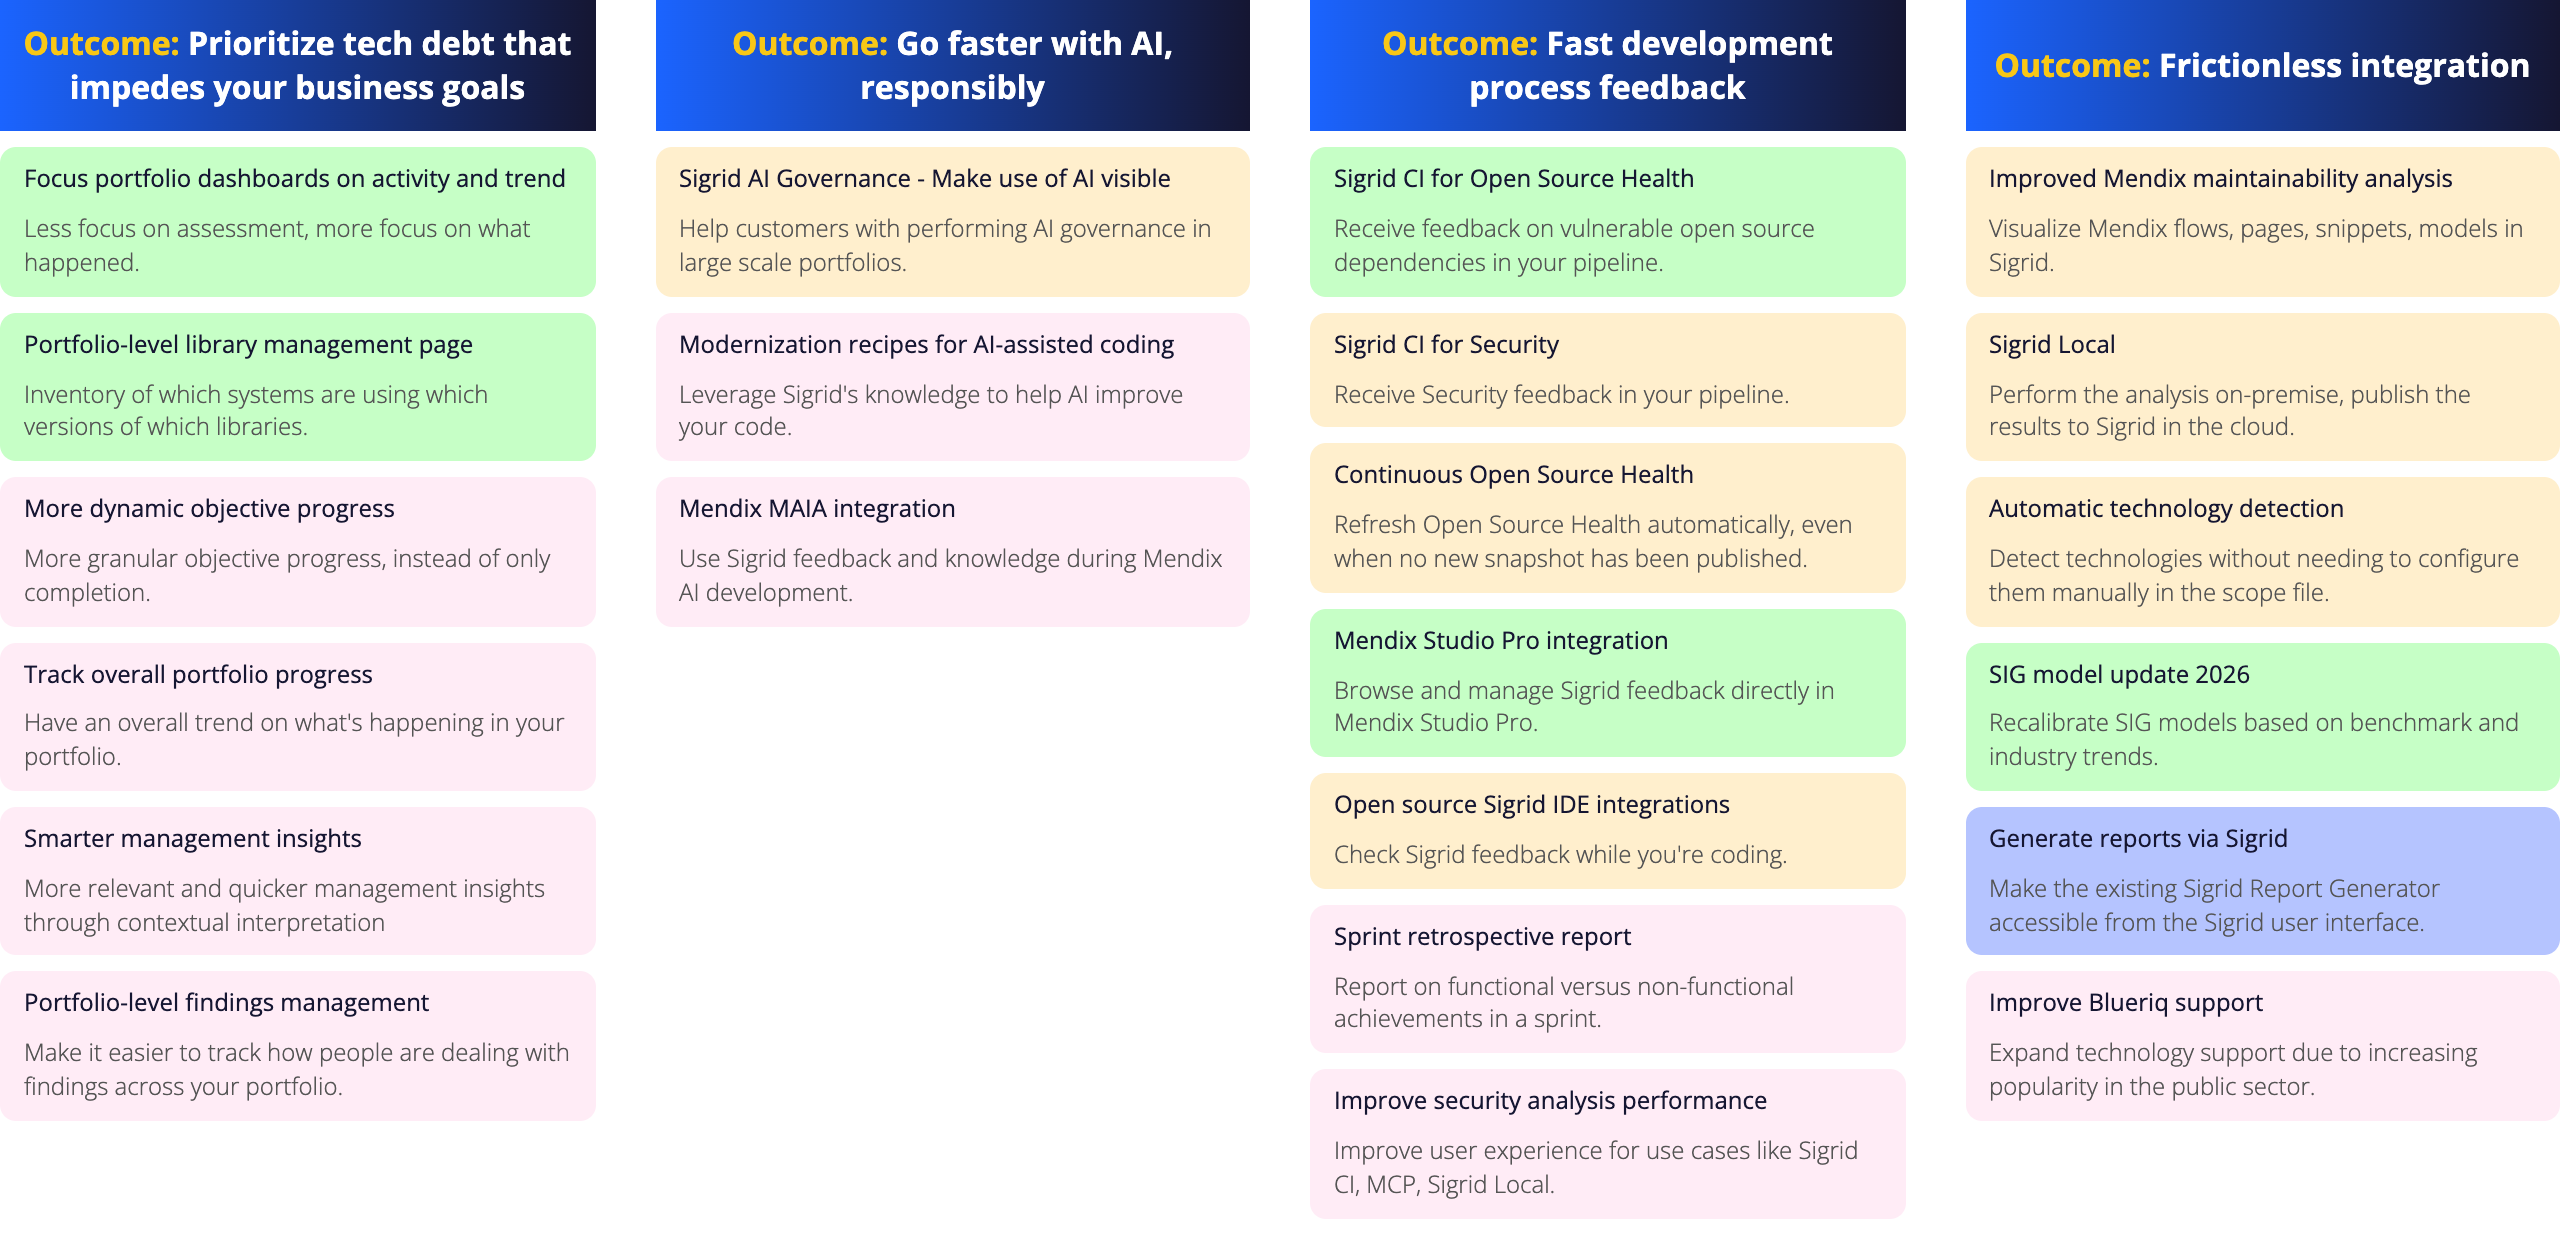
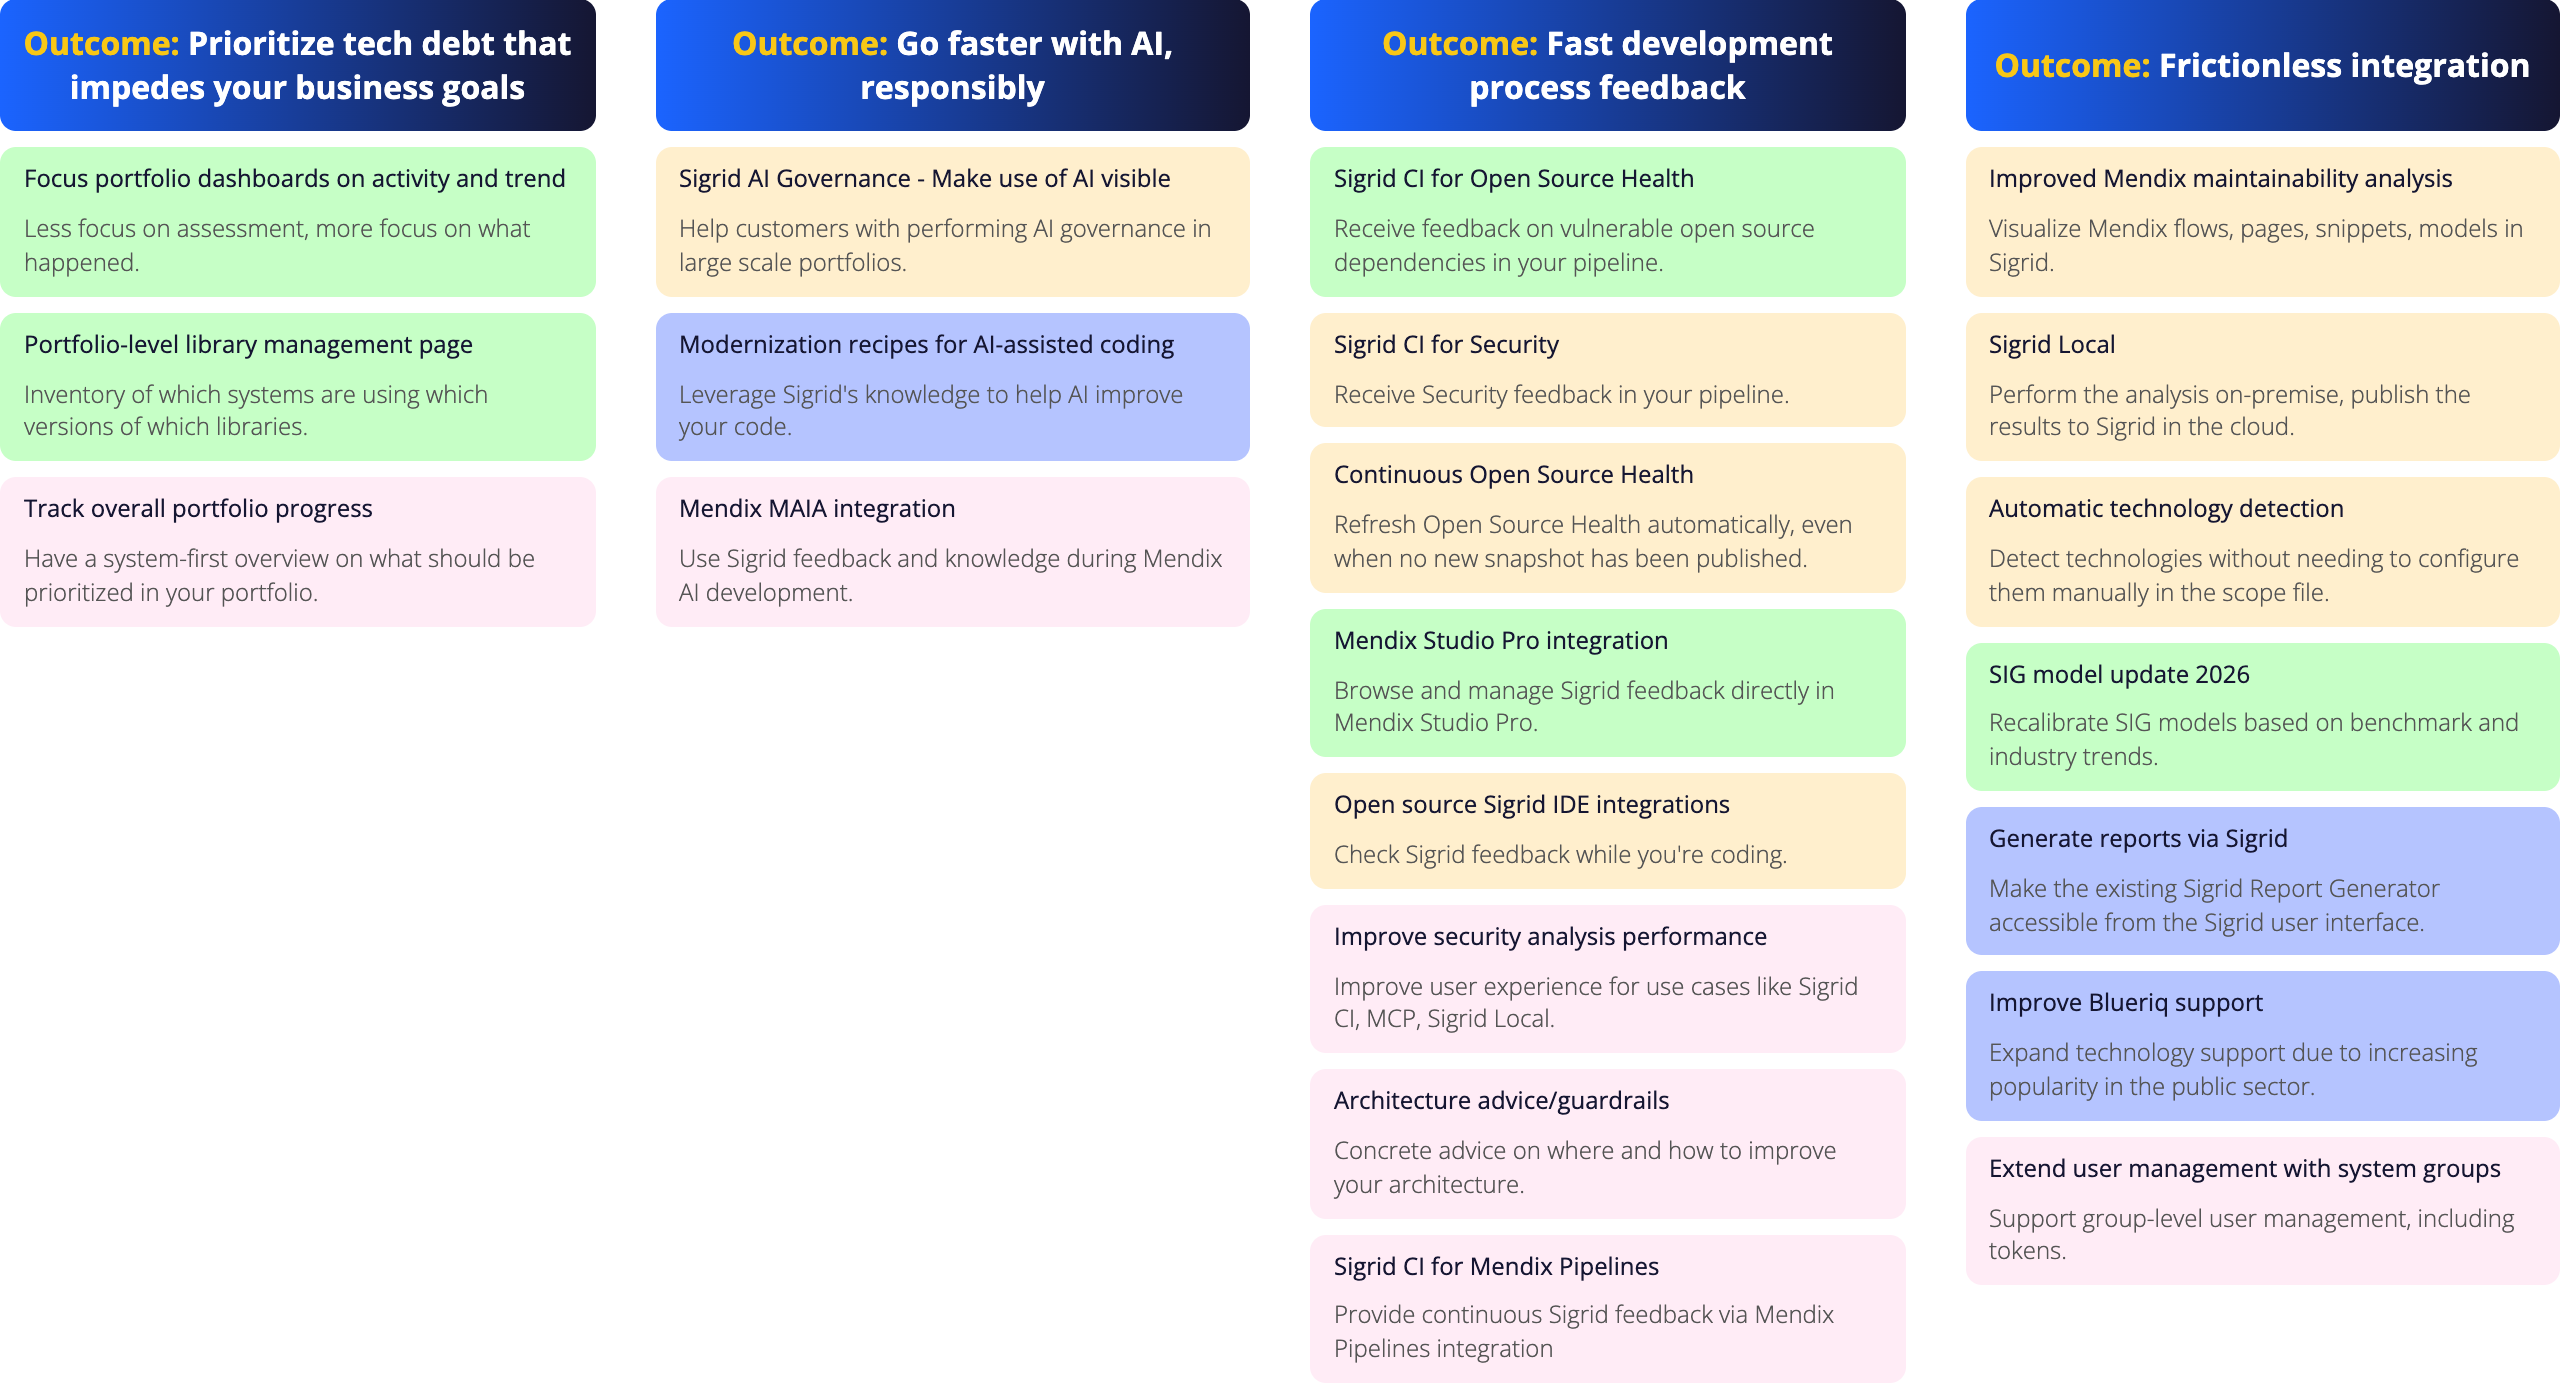
Update release notes.

diff --git a/docs/_includes/menu.html b/docs/_includes/menu.html
@@ -126,7 +126,8 @@
             <a href="/capabilities/reports/objectives-report.html" class="page subPage">Objectives report</a>
             <a href="/capabilities/reports/modernization-report.html" class="page subPage">Modernization report</a>
             <a href="https://github.com/Software-Improvement-Group/sigrid-integrations" class="page">Sigrid integration on GitHub</a>
-            <a href="https://github.com/Software-Improvement-Group/sigrid-integrations/tree/main/slack-security-findings" class="page subPage">Security findings in Slack (or MS Teams)</a>
+            <a href="https://github.com/Software-Improvement-Group/sigrid-integrations/tree/main/slack-security-findings" class="page subPage">Security findings in Slack</a>
+            <a href="https://github.com/Software-Improvement-Group/sigrid-integrations/tree/main/teams-security-findings" class="page subPage">Security findings in MS Teams</a>
             <a href="https://github.com/Software-Improvement-Group/sigrid-integrations/tree/main/get-scope-file" class="page subPage">Get/Update scope configuration file</a>
             <a href="https://github.com/Software-Improvement-Group/sigrid-integrations/tree/main/polarion-integration" class="page subPage">Siemens Polarion integration</a>
             <a href="https://github.com/Software-Improvement-Group/sigrid-integrations/tree/main/ldap-group-sync" class="page subPage">Sigrid LDAP group synchronization</a>   

diff --git a/docs/_includes/stylesheet.css b/docs/_includes/stylesheet.css
@@ -363,8 +363,6 @@ pre {
     padding: 16px;
     border-radius: 8px;
     font-family: "Menlo", monospace;
-    margin-left: auto;
-    margin-right: auto;
 }
 
 p > code, li > code {

diff --git a/docs/reference/technology-support.md b/docs/reference/technology-support.md
@@ -430,29 +430,30 @@ In addition to supporting 300+ technologies, Sigrid also supports various open s
 
 | Open source ecosystem | Common technologies    | Vulnerability risk | License risk | Freshness risk | Transitive dependencies | Notes                                                                            |
 |-----------------------|------------------------|--------------------|--------------|----------------|-------------------------|----------------------------------------------------------------------------------|
-| Bower                 | JavaScript             | ✅                  | ✅            | ✅              | ❌                       |
-| Cargo                 | Rust                   | ✅                  | ✅            | ✅              | ✅                       |
+| Bower                 | JavaScript             | ✅                  | ✅            | ✅              | ❌                       |                                                                                  |
+| Cargo                 | Rust                   | ✅                  | ✅            | ✅              | ✅                       |                                                                                  |
 | CocoaPods             | Swift, Objective-C     | ❌                  | ❌            | ❌              | ❌                       | End-of-life, as CocoaPods itself is shutting down.                               |
-| Composer              | PHP                    | ✅                  | ✅            | ✅              | ✅                       |
-| Go Modules            | Go                     | ✅                  | ✅            | ✅              | ✅                       |
+| Composer              | PHP                    | ✅                  | ✅            | ✅              | ✅                       |                                                                                  |
+| Go Modules            | Go                     | ✅                  | ✅            | ✅              | ✅                       |                                                                                  |
 | Gradle                | Java, Kotlin, Groovy   | ✅                  | ✅            | ✅              | ✅                       | [Instructions for publishing](../capabilities/osh-upload-instructions.md#gradle) |
-| Ivy                   | Java                   | ✅                  | ✅            | ✅              | ✅                       |
-| LibMan                | JavaScript             | ✅                  | ✅            | ✅              | ❌                       |
+| Hex                   | Erlang, Elixir         | ❌                  | ❌            | ❌              | ✅                       |                                                                                  |
+| Ivy                   | Java                   | ✅                  | ✅            | ✅              | ✅                       |                                                                                  |
+| LibMan                | JavaScript             | ✅                  | ✅            | ✅              | ❌                       |                                                                                  |
 | Maven                 | Java                   | ✅                  | ✅            | ✅              | ✅                       | [Instructions for publishing](../capabilities/osh-upload-instructions.md#maven)  |
-| NPM                   | JavaScript, TypeScript | ✅                  | ✅            | ✅              | ✅                       |
-| NuGet                 | C#                     | ✅                  | ✅            | ✅              | ✅                       |
-| PNPM                  | JavaScript, TypeScript | ✅                  | ✅            | ✅              | ✅                       |
+| NPM                   | JavaScript, TypeScript | ✅                  | ✅            | ✅              | ✅                       |                                                                                  |
+| NuGet                 | C#                     | ✅                  | ✅            | ✅              | ✅                       |                                                                                  |
+| PNPM                  | JavaScript, TypeScript | ✅                  | ✅            | ✅              | ✅                       |                                                                                  |
 | Poetry                | Python                 | ✅                  | ✅            | ✅              | ✅                       | [Instructions for publishing](../capabilities/osh-upload-instructions.md#poetry) |
-| pub.dev               | Dart, Flutter          | ✅                  | ❌            | ✅              | ❌                       |
-| PuppetForge           | Puppet                 | ❌                  | ✅            | ✅              | ❌                       |
-| PyPi                  | Python                 | ✅                  | ✅            | ✅              | ✅                       |
-| RubyGems              | Ruby                   | ✅                  | ✅            | ✅              | ✅                       |
-| SBT                   | Scala                  | ✅                  | ✅            | ✅              | ✅                       |
-| SwiftPM               | Swift                  | ❌                  | ✅            | ✅              | ❌                       |
-| UV                    | Python                 | ✅                  | ✅            | ✅              | ✅                       | 
-| Unmanaged JAR files   | Java                   |
-| Unmanaged DLL files   | C#                     | 
-| Unmanaged JS files    | JavaScript             |
+| pub.dev               | Dart, Flutter          | ✅                  | ❌            | ✅              | ❌                       |                                                                                  |
+| PuppetForge           | Puppet                 | ❌                  | ✅            | ✅              | ❌                       |                                                                                  |
+| PyPi                  | Python                 | ✅                  | ✅            | ✅              | ✅                       |                                                                                  |
+| RubyGems              | Ruby                   | ✅                  | ✅            | ✅              | ✅                       |                                                                                  |
+| SBT                   | Scala                  | ✅                  | ✅            | ✅              | ✅                       |                                                                                  |
+| SwiftPM               | Swift                  | ❌                  | ✅            | ✅              | ❌                       |                                                                                  |
+| UV                    | Python                 | ✅                  | ✅            | ✅              | ✅                       |                                                                                  |
+| Unmanaged JAR files   | Java                   |                    |              |                |                         |                                                                                  |
+| Unmanaged DLL files   | C#                     |                    |              |                |                         |                                                                                  |
+| Unmanaged JS files    | JavaScript             |                    |              |                |                         |                                                                                  |
 
 ## Supported security analyzers
 

diff --git a/docs/reference/release-notes.md b/docs/reference/release-notes.md
@@ -3,23 +3,21 @@ Sigrid release notes
 
 SIG uses [continuous delivery](https://en.wikipedia.org/wiki/Continuous_delivery), meaning that every change to Sigrid or the underlying analysis is released once our development pipeline has completed. On average, we release somewhere between 10 and 20 times per day. This page therefore doesn't list every single change, since that would quickly lead to an excessively long list of small changes. Instead, this page lists Sigrid and analysis changes that we consider noteworthy for the typical Sigrid user.
 
-### June 22, 2026
+### June 29, 2026
 
-- **Sigrid CI:** PR feedback comments can now be posted directly using the built-in `GITHUB_TOKEN`, making the `mshick/add-pr-comment` action optional. No additional configuration is required.
+- **Code Explorer:** The user interface within the Code Explorer has been expanded to be more flexible. You can now choose to collapse the source code, giving you more space to browse the list of findings. The [Code Explorer documentation](../capabilities/system-code-explorer.md) has been updated accordingly. 
+- **Sigrid CI:** Pull request feedback comments can now be posted directly using the built-in `GITHUB_TOKEN`, making the `mshick/add-pr-comment` action optional. No additional configuration is required.
 - **On-premise:** The Sigrid Multi-Analyzer now fails early when a system has been deactivated in the Sigrid system settings page.
 - **On-premise:** Fixed custom CA certificates not being passed through when posting PR/MR feedback comments. See the [On-premise release notes](../organization-integration/onpremise-release-notes.md) for details.
-
-### June 16, 2026
-
 - **On-premise:** The Sigrid Multi-Analyzer now validates your Sigrid credentials and configuration before starting an analysis, so pipeline jobs fail fast with a clear message when the `SIGRID_CI_TOKEN` is missing, invalid, or lacks access to the system. Systems that have not been on-boarded yet are now reported clearly instead of failing with a confusing error. See the [On-premise release notes](../organization-integration/onpremise-release-notes.md) for details.
+- **Technology support:** Sigrid now properly counts test code for Rust. Previously, certain types of test code were not picked up and did therefore not count towards the test code ratio in Sigrid. If you're using Rust in Sigrid, do not forget to [configure your upload](technology-support.md#technology-conversion-configuration) accordingly.
+- **Technology support:** Sigrid's Open Source Health now detects dependencies and versions for [Hex](https://hex.pm), which is commonly used with the [Erlang](https://www.erlang.org) and [Elixir](https://elixir-lang.org) programming languages. Initial support is basic, as can be seen in the [technology support list](technology-support.md#supported-open-source-ecosystems), but will be expanded in the coming months.
+- **Integrations:** An open source [integration for posting new Sigrid security findings](https://github.com/Software-Improvement-Group/sigrid-integrations/tree/main/teams-security-findings) to Microsoft Teams is now available. A similar integration already existed for Slack, but is now also ailable to organizations using Microsoft Teams.
 
 ### June 15, 2026
 
 - **IDE integrations:** The Sigrid extension for [Visual Studio Code](https://github.com/Software-Improvement-Group/sigrid-vscode-extension) now allows you to export Sigrid findings to [https://www.atlassian.com/software/jira](JIRA). You can use this in a process where you first triage Sigrid findings in your IDE, then mark certain findings as "will fix", then automatically create a JIRA issue based on those findings.
 - **IDE integrations:** A beta version of the [Sigrid extension for JetBrains IDEs](https://github.com/Software-Improvement-Group/sigrid-jetbrains-plugin) is now available. It offers similar functionality as the Sigrid IDE integrations for Visual Studio Code and Mendix Studio Pro. Instructions and downloads for the beta version are available from GitHub. 
-
-### June 13, 2026
-
 - **On-premise:** The support page in the Sigrid UI now shows the Sigrid version number for on-premise deployments, instead of only a commit SHA. See the [On-premise release notes](../organization-integration/onpremise-release-notes.md) for details.
 
 ### June 1, 2026